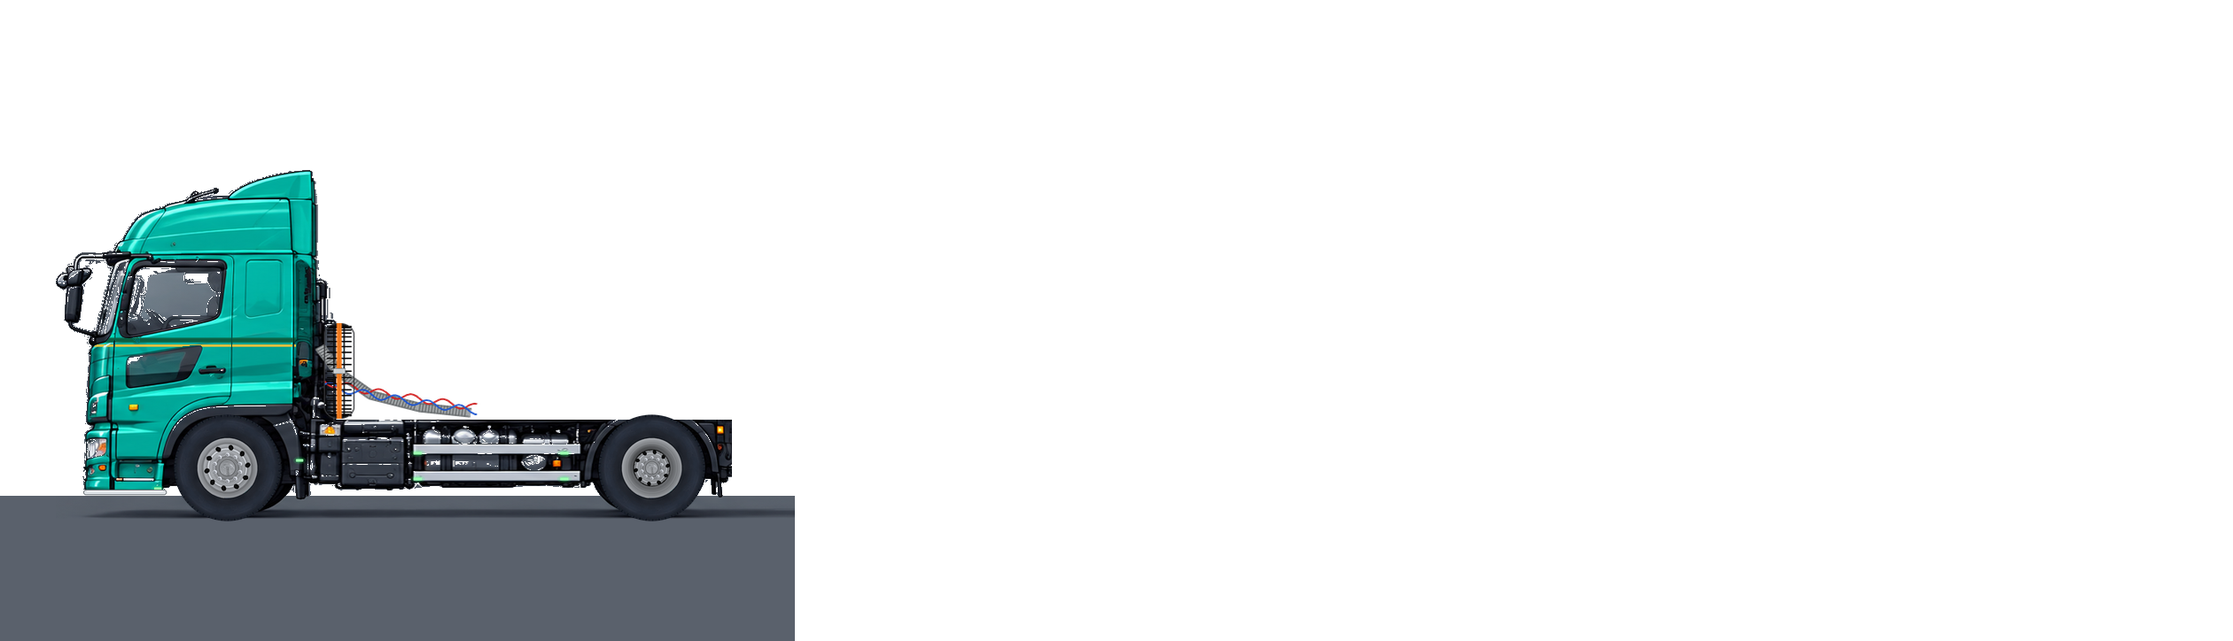
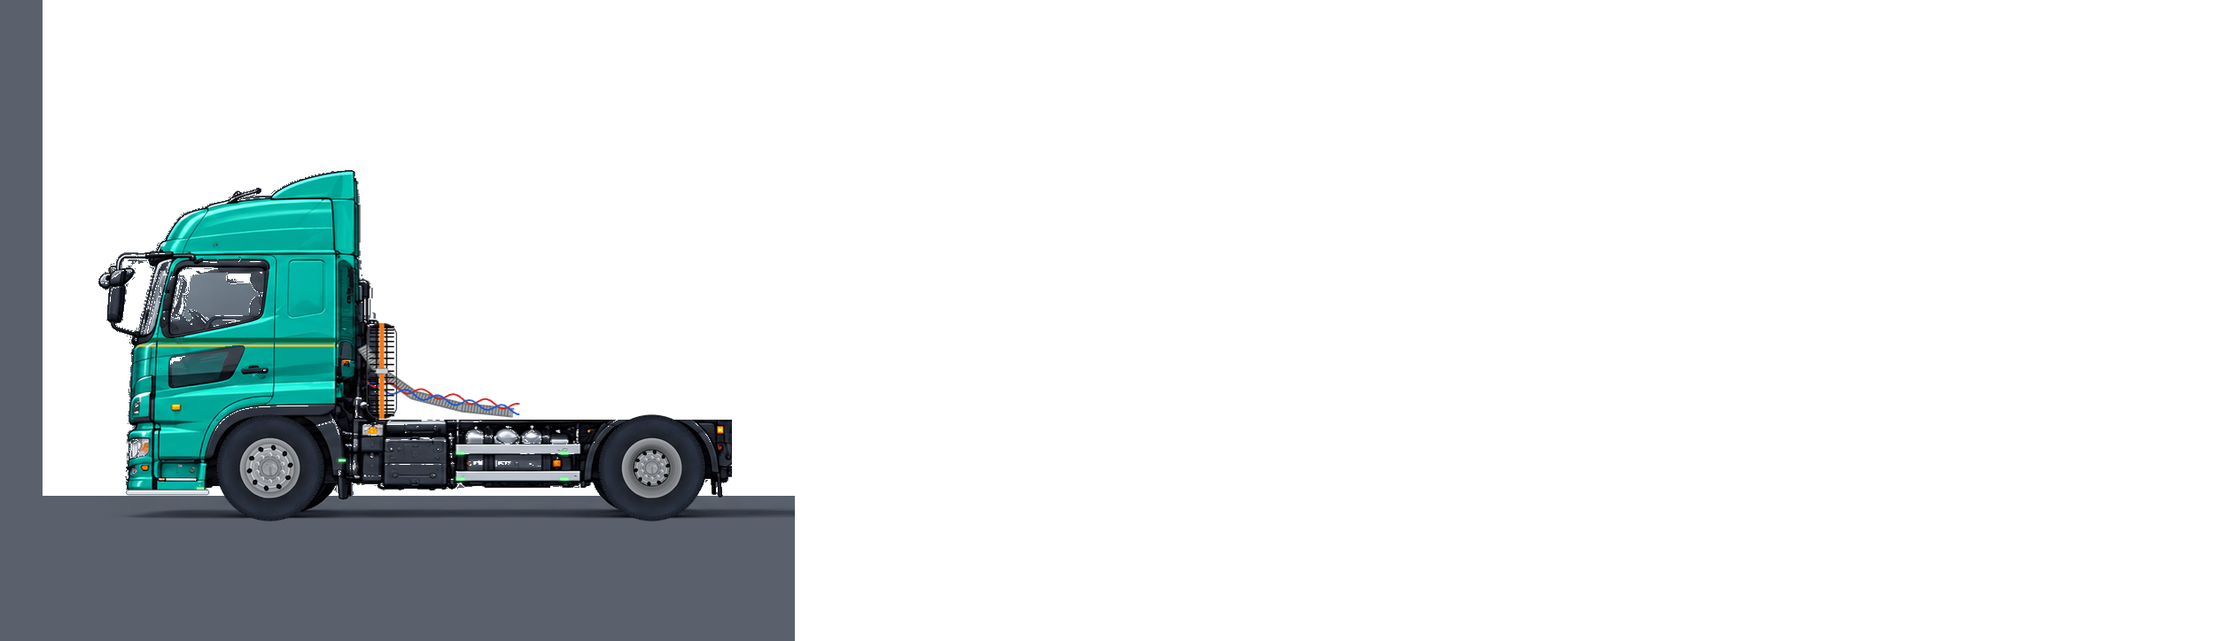
ビルド279.1.50

Changed region(s): [[0.0, 0.0, 0.2476, 0.8204]]

diff --git a/index.html b/index.html
@@ -301,33 +301,33 @@
     color: #1b1f24; font-size: 13px; font-weight: bold; line-height: 1.2; text-align: center;
     background: none;
     border: 14px solid transparent; border-width: 14px; margin: 0;
-    border-image: url(assets/common/ui/btn_plate.png?v=279.1.49) 14 fill / 14px stretch;
+    border-image: url(assets/common/ui/btn_plate.png?v=279.1.50) 14 fill / 14px stretch;
     border-radius: 0;
     text-shadow: 0 1px 0 rgba(255,255,255,.35);
   }
-  .plate:active, #floorPanel .mechRow button:active, #chockPanel button:active, #btnOrient:active, #btnOrientCar:active, #deckDrawerHandle:active { border-image-source: url(assets/common/ui/btn_plate_pressed.png?v=279.1.49); padding-top: 2px; }
-  #floorPanel .mechRow button.on, #chockPanel button.on, #btnOrientCar { border-image-source: url(assets/common/ui/btn_plate_go.png?v=279.1.49); }
-  #floorPanel .mechRow button.on:active, #btnOrientCar:active { border-image-source: url(assets/common/ui/btn_plate_go_pressed.png?v=279.1.49); }
-  #btnLid { border-image-source: url(assets/common/ui/btn_plate_warn.png?v=279.1.49); }
-  #btnLid:active { border-image-source: url(assets/common/ui/btn_plate_warn_pressed.png?v=279.1.49); }
-  #floorPanel .mechRow button.go { border-image-source: url(assets/common/ui/btn_plate_go.png?v=279.1.49); }
-  #floorPanel .mechRow button.go:active { border-image-source: url(assets/common/ui/btn_plate_go_pressed.png?v=279.1.49); }
-  #chockPanel button:disabled, #btnOrient:disabled { border-image-source: url(assets/common/ui/btn_plate_disabled.png?v=279.1.49); opacity: 1; color: #6b7078; text-shadow: none; }
+  .plate:active, #floorPanel .mechRow button:active, #chockPanel button:active, #btnOrient:active, #btnOrientCar:active, #deckDrawerHandle:active { border-image-source: url(assets/common/ui/btn_plate_pressed.png?v=279.1.50); padding-top: 2px; }
+  #floorPanel .mechRow button.on, #chockPanel button.on, #btnOrientCar { border-image-source: url(assets/common/ui/btn_plate_go.png?v=279.1.50); }
+  #floorPanel .mechRow button.on:active, #btnOrientCar:active { border-image-source: url(assets/common/ui/btn_plate_go_pressed.png?v=279.1.50); }
+  #btnLid { border-image-source: url(assets/common/ui/btn_plate_warn.png?v=279.1.50); }
+  #btnLid:active { border-image-source: url(assets/common/ui/btn_plate_warn_pressed.png?v=279.1.50); }
+  #floorPanel .mechRow button.go { border-image-source: url(assets/common/ui/btn_plate_go.png?v=279.1.50); }
+  #floorPanel .mechRow button.go:active { border-image-source: url(assets/common/ui/btn_plate_go_pressed.png?v=279.1.50); }
+  #chockPanel button:disabled, #btnOrient:disabled { border-image-source: url(assets/common/ui/btn_plate_disabled.png?v=279.1.50); opacity: 1; color: #6b7078; text-shadow: none; }
   #floorPanel .mechRow button::before, #chockPanel #btnLid::before, #chockPanel #btnChockSet::before, #chockPanel #btnChockFront::before, #chockPanel #btnChockRear::before, #btnOrient::before, #btnOrientCar::before, #deckDrawerHandle::before {
     content: ''; flex: none; width: 26px; height: 26px; background-position: center; background-size: contain; background-repeat: no-repeat;
   }
   #modeBar > span:empty { display: none; }
   #floorPanel .mechRow button.hold6b::before { display: none; }   /* semi-6b の仮の昇降ボタン(アイコン無し) */
-  #btnRamp::before { background-image: url(assets/common/ui/ic_ramp.png?v=279.1.49); }
-  #btnBridge::before { background-image: url(assets/common/ui/ic_bridge.png?v=279.1.49); }
-  #btnSlide::before { background-image: url(assets/common/ui/ic_slide.png?v=279.1.49); }
-  #btnF2Flap::before { background-image: url(assets/common/ui/ic_flap2.png?v=279.1.49); }
-  #btnLid::before { background-image: url(assets/common/ui/ic_lid.png?v=279.1.49); }
-  #btnChockSet::before { background-image: url(assets/common/ui/ic_chock.png?v=279.1.49); }
-  #btnChockFront::before { background-image: url(assets/common/ui/ic_front.png?v=279.1.49); }
-  #btnChockRear::before { background-image: url(assets/common/ui/ic_rear.png?v=279.1.49); }
-  #btnOrient::before, #btnOrientCar::before { background-image: url(assets/common/ui/ic_orient.png?v=279.1.49); }
-  #deckDrawerHandle::before { background-image: url(assets/common/ui/ic_drawer.png?v=279.1.49); }
+  #btnRamp::before { background-image: url(assets/common/ui/ic_ramp.png?v=279.1.50); }
+  #btnBridge::before { background-image: url(assets/common/ui/ic_bridge.png?v=279.1.50); }
+  #btnSlide::before { background-image: url(assets/common/ui/ic_slide.png?v=279.1.50); }
+  #btnF2Flap::before { background-image: url(assets/common/ui/ic_flap2.png?v=279.1.50); }
+  #btnLid::before { background-image: url(assets/common/ui/ic_lid.png?v=279.1.50); }
+  #btnChockSet::before { background-image: url(assets/common/ui/ic_chock.png?v=279.1.50); }
+  #btnChockFront::before { background-image: url(assets/common/ui/ic_front.png?v=279.1.50); }
+  #btnChockRear::before { background-image: url(assets/common/ui/ic_rear.png?v=279.1.50); }
+  #btnOrient::before, #btnOrientCar::before { background-image: url(assets/common/ui/ic_orient.png?v=279.1.50); }
+  #deckDrawerHandle::before { background-image: url(assets/common/ui/ic_drawer.png?v=279.1.50); }
   #chockPanel #btnChockFront, #chockPanel #btnChockRear { font-size: 0; padding: 0 4px; min-width: 56px; }   /* ◀前へ・後ろへ▶ は、アイコンだけ */
   #chockPanel #btnChockFront::after { content: '前へ'; font-size: 12px; }
   #chockPanel #btnChockRear::after { content: '後ろへ'; font-size: 12px; }
@@ -336,57 +336,57 @@
   /* 輪止め・落し蓋のスロット: フロアの名札(slot_*)。選んでいる番号は黄色い縁 */
   #slotSel button { box-sizing: border-box; width: 46px; height: 46px; min-width: 0; padding: 0; border: 0; border-radius: 0; font-size: 0; color: transparent; background: center / contain no-repeat; }
   #slotSel button.on { background-color: transparent; border: 0; }
-  #slotSel button[data-slot="1"] { background-image: url(assets/common/ui/slot_1.png?v=279.1.49); } #slotSel button[data-slot="1"].on { background-image: url(assets/common/ui/slot_1_selected.png?v=214); }
-  #slotSel button[data-slot="2"] { background-image: url(assets/common/ui/slot_2.png?v=279.1.49); } #slotSel button[data-slot="2"].on { background-image: url(assets/common/ui/slot_2_selected.png?v=214); }
-  #slotSel button[data-slot="3"] { background-image: url(assets/common/ui/slot_3.png?v=279.1.49); } #slotSel button[data-slot="3"].on { background-image: url(assets/common/ui/slot_3_selected.png?v=214); }
-  #slotSel button[data-slot="4"] { background-image: url(assets/common/ui/slot_4.png?v=279.1.49); } #slotSel button[data-slot="4"].on { background-image: url(assets/common/ui/slot_4_selected.png?v=214); }
-  #slotSel button[data-slot="5"] { background-image: url(assets/common/ui/slot_5.png?v=279.1.49); } #slotSel button[data-slot="5"].on { background-image: url(assets/common/ui/slot_5_selected.png?v=214); }
-  #slotSel button[data-slot="6"] { background-image: url(assets/common/ui/slot_6.png?v=279.1.49); } #slotSel button[data-slot="6"].on { background-image: url(assets/common/ui/slot_6_selected.png?v=214); }
-  #slotSel button[data-slot="7"] { background-image: url(assets/common/ui/slot_mid.png?v=279.1.49); } #slotSel button[data-slot="7"].on { background-image: url(assets/common/ui/slot_mid_selected.png?v=214); }
+  #slotSel button[data-slot="1"] { background-image: url(assets/common/ui/slot_1.png?v=279.1.50); } #slotSel button[data-slot="1"].on { background-image: url(assets/common/ui/slot_1_selected.png?v=214); }
+  #slotSel button[data-slot="2"] { background-image: url(assets/common/ui/slot_2.png?v=279.1.50); } #slotSel button[data-slot="2"].on { background-image: url(assets/common/ui/slot_2_selected.png?v=214); }
+  #slotSel button[data-slot="3"] { background-image: url(assets/common/ui/slot_3.png?v=279.1.50); } #slotSel button[data-slot="3"].on { background-image: url(assets/common/ui/slot_3_selected.png?v=214); }
+  #slotSel button[data-slot="4"] { background-image: url(assets/common/ui/slot_4.png?v=279.1.50); } #slotSel button[data-slot="4"].on { background-image: url(assets/common/ui/slot_4_selected.png?v=214); }
+  #slotSel button[data-slot="5"] { background-image: url(assets/common/ui/slot_5.png?v=279.1.50); } #slotSel button[data-slot="5"].on { background-image: url(assets/common/ui/slot_5_selected.png?v=214); }
+  #slotSel button[data-slot="6"] { background-image: url(assets/common/ui/slot_6.png?v=279.1.50); } #slotSel button[data-slot="6"].on { background-image: url(assets/common/ui/slot_6_selected.png?v=214); }
+  #slotSel button[data-slot="7"] { background-image: url(assets/common/ui/slot_mid.png?v=279.1.50); } #slotSel button[data-slot="7"].on { background-image: url(assets/common/ui/slot_mid_selected.png?v=214); }
   #slotSel button:active { filter: brightness(.85); }
 
   /* 前進(◀ 緑)・後退(▶ 橙)の大きな丸い押ボタン(押している間は沈む。クラス down は ui_layout.js が付ける) */
   #arrowGroup { background: none; border: 0; padding: 0; gap: 14px; }
   #arrowGroup .arrowBtn { width: 76px; height: 76px; border: 0; border-radius: 0; background-color: transparent; background-position: center; background-size: contain; background-repeat: no-repeat; font-size: 0; color: transparent; }
-  #btnLeft { background-image: url(assets/common/ui/btn_drive_fwd.png?v=279.1.49); }
-  #btnRight { background-image: url(assets/common/ui/btn_drive_back.png?v=279.1.49); }
-  #btnLeft:active, #btnLeft.down { background-image: url(assets/common/ui/btn_drive_fwd_pressed.png?v=279.1.49); background-color: transparent; }
-  #btnRight:active, #btnRight.down { background-image: url(assets/common/ui/btn_drive_back_pressed.png?v=279.1.49); background-color: transparent; }
+  #btnLeft { background-image: url(assets/common/ui/btn_drive_fwd.png?v=279.1.50); }
+  #btnRight { background-image: url(assets/common/ui/btn_drive_back.png?v=279.1.50); }
+  #btnLeft:active, #btnLeft.down { background-image: url(assets/common/ui/btn_drive_fwd_pressed.png?v=279.1.50); background-color: transparent; }
+  #btnRight:active, #btnRight.down { background-image: url(assets/common/ui/btn_drive_back_pressed.png?v=279.1.50); background-color: transparent; }
   body { padding-bottom: 104px; }
 
   /* 上の情報欄・下の操作パネルの背景 */
-  #modeBar { box-sizing: border-box; background: none; border: solid transparent; border-width: 0 24px 6px 24px; border-image: url(assets/common/ui/hud_bar.png?v=279.1.49) 0 24 6 24 fill / 0 24px 6px 24px stretch; padding: 8px 0 4px; gap: 8px; color: #dfe8f2; min-height: 56px; align-items: center; }
+  #modeBar { box-sizing: border-box; background: none; border: solid transparent; border-width: 0 24px 6px 24px; border-image: url(assets/common/ui/hud_bar.png?v=279.1.50) 0 24 6 24 fill / 0 24px 6px 24px stretch; padding: 8px 0 4px; gap: 8px; color: #dfe8f2; min-height: 56px; align-items: center; }
   #modeBar #modeBarName { flex: 1 1 100%; font-size: 14px; }
-  #modeBar > span:not(#modeBarName):not(#missCount) { box-sizing: border-box; border: 8px solid transparent; border-image: url(assets/common/ui/meter_box.png?v=279.1.49) 8 fill / 8px stretch; padding: 0 2px; min-width: 56px; text-align: center; font-size: 13px; color: #7dfcd0; font-weight: bold; line-height: 1.1; }
+  #modeBar > span:not(#modeBarName):not(#missCount) { box-sizing: border-box; border: 8px solid transparent; border-image: url(assets/common/ui/meter_box.png?v=279.1.50) 8 fill / 8px stretch; padding: 0 2px; min-width: 56px; text-align: center; font-size: 13px; color: #7dfcd0; font-weight: bold; line-height: 1.1; }
   #modeBar #modeBarScore { margin-left: auto; color: #ffd34d; }
   #modeBar #missCount { margin-left: 4px; font-size: 14px; }
   #toolbar { display: none; }
   body.debug #toolbar { display: flex; }
   #status { display: none; }
   body.debug #status { display: block; }
-  #floorPanel, #chockPanel, #controls { box-sizing: border-box; background: none; border: solid transparent; border-width: 12px 16px 8px 16px; border-image: url(assets/common/ui/panel_bg.png?v=279.1.49) 12 16 8 16 fill / 12px 16px 8px 16px stretch; margin-top: 2px; }
+  #floorPanel, #chockPanel, #controls { box-sizing: border-box; background: none; border: solid transparent; border-width: 12px 16px 8px 16px; border-image: url(assets/common/ui/panel_bg.png?v=279.1.50) 12 16 8 16 fill / 12px 16px 8px 16px stretch; margin-top: 2px; }
 
   /* A-3 必要な時だけ出す: スイッチの説明文は ? を押した時だけ。車の一覧は引き出し式 */
   #swHint { display: none !important; }
   #swHint.show { display: block !important; }
   #btnHelp, #btnSwClose { box-sizing: border-box; width: 36px; height: 36px; padding: 0; margin-left: 8px; vertical-align: middle; border: 0; background: center / contain no-repeat; font-size: 0; color: transparent; cursor: pointer; }
-  #btnHelp { background-image: url(assets/common/ui/ic_help.png?v=279.1.49); }
-  #floorPanel #btnSwClose { width: 36px; height: 36px; padding: 0; margin-left: 4px; border: 0; background: center / contain no-repeat url(assets/common/ui/ic_close.png?v=279.1.49); font-size: 0; }
+  #btnHelp { background-image: url(assets/common/ui/ic_help.png?v=279.1.50); }
+  #floorPanel #btnSwClose { width: 36px; height: 36px; padding: 0; margin-left: 4px; border: 0; background: center / contain no-repeat url(assets/common/ui/ic_close.png?v=279.1.50); font-size: 0; }
   #deckDrawerHandle { width: 100%; justify-content: flex-start; }
   #deckDrawerHandle .cnt { margin-left: auto; font-weight: normal; }
   #deckDrawer { display: none; }
   #deckDrawer.open { display: block; margin-top: 6px; }
 
   /* 今は押せない操作(車が道板・4番扇動板を通っている間など)は、灰色の板にする(ui_layout.js が na を付ける。押すとゲームが理由を出す) */
-  #floorPanel .mechRow button.na, #floorPanel .mechRow button.na:active { border-image-source: url(assets/common/ui/btn_plate_disabled.png?v=279.1.49); color: #6b7078; text-shadow: none; padding-top: 0; }
+  #floorPanel .mechRow button.na, #floorPanel .mechRow button.na:active { border-image-source: url(assets/common/ui/btn_plate_disabled.png?v=279.1.50); color: #6b7078; text-shadow: none; padding-top: 0; }
   #floorPanel .mechRow button.na::before { opacity: .45; }
 
   /* モード・難易度・結果の画面のボタンも、同じ板にそろえる(もう一度=緑) */
-  .modeBtn { box-sizing: border-box; background: none; border: 14px solid transparent; border-image: url(assets/common/ui/btn_plate.png?v=279.1.49) 14 fill / 14px stretch; border-radius: 0; color: #1b1f24; text-shadow: 0 1px 0 rgba(255,255,255,.35); padding: 4px 8px; min-height: 52px; }
+  .modeBtn { box-sizing: border-box; background: none; border: 14px solid transparent; border-image: url(assets/common/ui/btn_plate.png?v=279.1.50) 14 fill / 14px stretch; border-radius: 0; color: #1b1f24; text-shadow: 0 1px 0 rgba(255,255,255,.35); padding: 4px 8px; min-height: 52px; }
   .modeBtn small { color: #3a4048; }
-  .modeBtn:active { background: none; border-image-source: url(assets/common/ui/btn_plate_pressed.png?v=279.1.49); }
-  #btnRetry.modeBtn { border-image-source: url(assets/common/ui/btn_plate_go.png?v=279.1.49); }
-  #btnRetry.modeBtn:active { border-image-source: url(assets/common/ui/btn_plate_go_pressed.png?v=279.1.49); }
+  .modeBtn:active { background: none; border-image-source: url(assets/common/ui/btn_plate_pressed.png?v=279.1.50); }
+  #btnRetry.modeBtn { border-image-source: url(assets/common/ui/btn_plate_go.png?v=279.1.50); }
+  #btnRetry.modeBtn:active { border-image-source: url(assets/common/ui/btn_plate_go_pressed.png?v=279.1.50); }
 
   /* ===== スマホ幅: 下にスクロールしなくても、操作が1画面に収まるように詰める(車の一覧だけ、下にスクロールでよい。2026-10-06) =====
      幅 700px 以下だけに効く(パソコンの広い画面は、今まで通り)。ボタンの高さ・余白・段数を減らす */
@@ -664,7 +664,7 @@
 // トレーラーの切り替え: URL の hash に trailer=semi-6b があれば semi-6b、無ければ semi-6(従来どおり)。選んだIDは window.TRAILER_ID。
 // 読むファイルの組み合わせがトレーラーごとに違う(設定・フロア機構・積める判定・操作ボタン)ので、ここで決めて順番に読む。画像・JSを差し替えたら ?v= を上げる
 (function () {
-  var m = /[#&]trailer=(semi-6b?)(?:&|$)/.exec(location.hash), id = window.TRAILER_ID = m ? m[1] : 'semi-6', V = '?v=279.1.49';
+  var m = /[#&]trailer=(semi-6b?)(?:&|$)/.exec(location.hash), id = window.TRAILER_ID = m ? m[1] : 'semi-6', V = '?v=279.1.50';
   var list = id === 'semi-6b'
     ? ['trailer_config_semi6b', 'car_library', 'car_dims', 'car_tires', 'floor_mech_6b', 'loadable_6b', 'main', 'game', 'floor_controls_6b', 'modes', 'dispatch', 'ui_layout', 'ui_hide']
     : ['trailer_config', 'trailer_assets', 'car_library', 'car_dims', 'car_tires', 'floor_mech', 'loadable', 'main', 'game', 'floor_controls', 'modes', 'tutorial', 'dispatch', 'ui_layout', 'ui_hide'];

diff --git a/js/floor_mech.js b/js/floor_mech.js
@@ -536,7 +536,17 @@
   // 平らで金具が掛かっている普段の状態は、しまってあるので出さない(2026-10-08 ユーザー指示: ボタンをやめて、画面上で操作する)
   function stopperVisible() { return !!(MECH.hook || !MECH.stopper); }
   // 金具の位置(画面座標): 5番フロアの前端の下面。5番フロアの今の姿勢に付いていく
-  function stopperPos() { return [1011, 447]; }   // タップする所: 赤いレバーの先(D45。以前は5番の前端の下面)
+  // 赤いレバーは、5番フロアの前端に取り付ける(ユーザー指示 2026-10-15。以前は柱に固定)。素材の位置(D45): 5番が4番の高さ(前端 (1005,451)・6.73度)に掛かった時、レバーの軸=(1003,457)。
+  // その差を、5番の座標(5番の角度で回す)で持ち、5番の今の前端と角度に付いていく。レバーの絵は、その時の向き(世界の角度)で作ってあるので、5番の角度の差(今の角度 − 6.73度)だけ回す
+  var LV_LOCAL = [-1.28, 6.19], LV_DEG0 = 6.73;
+  function leverPose() {
+    var p = f5FrontPt(), a = poseOf('F5').ang * Math.PI / 180, c = Math.cos(a), s = Math.sin(a);
+    return { pin: [p[0] + LV_LOCAL[0] * c - LV_LOCAL[1] * s, p[1] + LV_LOCAL[0] * s + LV_LOCAL[1] * c], rot: a - LV_DEG0 * Math.PI / 180 };
+  }
+  function stopperPos() {   // タップする所: 赤いレバーの先
+    var L = leverPose(), c = Math.cos(L.rot), s = Math.sin(L.rot);
+    return [L.pin[0] + 8 * c + 10 * s, L.pin[1] + 8 * s - 10 * c];
+  }
   function f5FrontPt() { return onFloor('F5', FLOORS.F5.front.pt[0], FLOORS.F5.front.pt[1]); }
   function toggleStopper() {
     if (MECH.stopper) {
@@ -1069,7 +1079,7 @@
     poseOf: poseOf, tf: tf, onFloor: onFloor, curOffs: curOffs,
     holeNo: holeNo, holeRange: holeRange, pinTarget: pinTarget, snapToHole: snapToHole,
     stepPinTarget: stepPinTarget, togglePin: togglePin,
-    toggleStopper: toggleStopper, stopperVisible: stopperVisible, stopperPos: stopperPos, f5FrontPt: f5FrontPt, toggleBridge: toggleBridge, f5Slope: f5Slope,
+    toggleStopper: toggleStopper, stopperVisible: stopperVisible, stopperPos: stopperPos, f5FrontPt: f5FrontPt, leverPose: leverPose, toggleBridge: toggleBridge, f5Slope: f5Slope,
     toggleRamp: toggleRamp, rampUpdate: rampUpdate, rampReady: rampReady, rampT: function () { rampUpdate(); return RAMP.t; },
     toggleF2Flap: toggleF2Flap, toggleSlide: toggleSlide, carTiresOn: carTiresOn, bridgeSeg: bridgeSeg, slideT: slideT, slideReady: slideReady, slideGeom: slideGeom, slideHitsBody: slideHitsBody, bridgeHitsBody: bridgeHitsBody, bridgeSurfaceY: bridgeSurfaceY, SLIDE: SLIDE, F2_FLAP_LEN: F2_FLAP_LEN, flapT: flapT, bridgeT: bridgeT, bridgeReady: bridgeReady, bridgeTip: bridgeTip,
     holdStart: holdStart, holdStop: holdStop,

diff --git a/js/main.js b/js/main.js
@@ -712,7 +712,7 @@
     if (IS6B) return;
     if (!tractorWheelImgs) {
       tractorWheelImgs = [];
-      [['assets/semi-6/wheel_front.png', 256.5, 528.5], ['assets/semi-6/wheel_drive.png', 735.5, 528.5]].forEach(function (d) {
+      [['assets/semi-6/wheel_front.png', 304.5, 528.5], ['assets/semi-6/wheel_drive.png', 735.5, 528.5]].forEach(function (d) {
         var im = new Image(); im.src = d[0] + '?v=1'; tractorWheelImgs.push({ im: im, x: d[1], y: d[2] });
       });
     }
@@ -1116,15 +1116,15 @@
 
   // 5番のスロープのピンの、赤いレバー(中央の柱の後ろの面。D45。マニュアルの図とユーザーの説明どおり)。普段は斜め上40度。5番が4番の高さに掛かっている間にタップすると、
   // レバーが上がって(82度)ピンが外れ、5番を下げられる。5番が4番の高さより下がると、レバーは自動で普段の向きに戻る(ピンが出る)。タップできる間は、まわりをゆっくり光らせる
-  var LEVER_AT = [1003, 457];
   function drawStopperHook(fm) {
     var up = !fm.MECH.stopper, im = images[up ? 'sl_lever_up' : 'sl_lever'];
-    if (!im) return;
+    if (!im || !fm.leverPose) return;
+    var L = fm.leverPose();   // 5番フロアの前端に付いて、5番と一緒に動く(ユーザー指示 2026-10-15)
     if (fm.stopperVisible && fm.stopperVisible()) {
-      var pulse = 0.5 + 0.5 * Math.sin(performance.now() / 260);
-      ctx.save(); ctx.fillStyle = 'rgba(255,90,70,' + (0.16 + 0.2 * pulse) + ')'; ctx.beginPath(); ctx.arc(LEVER_AT[0] + 8, LEVER_AT[1] - 10, 16 + 3 * pulse, 0, Math.PI * 2); ctx.fill(); ctx.restore();
+      var pulse = 0.5 + 0.5 * Math.sin(performance.now() / 260), tp = fm.stopperPos();
+      ctx.save(); ctx.fillStyle = 'rgba(255,90,70,' + (0.16 + 0.2 * pulse) + ')'; ctx.beginPath(); ctx.arc(tp[0], tp[1], 16 + 3 * pulse, 0, Math.PI * 2); ctx.fill(); ctx.restore();
     }
-    ctx.drawImage(im, LEVER_AT[0] - 7, LEVER_AT[1] - 19);
+    ctx.save(); ctx.translate(L.pin[0], L.pin[1]); ctx.rotate(L.rot); ctx.drawImage(im, -7, -19); ctx.restore();
   }
 
   function drawPulley(p) {

diff --git a/js/trailer_config.js b/js/trailer_config.js
@@ -2,11 +2,11 @@ window.TRAILER_CONFIG = {
   "id": "semi-6",
   "name": "セミトレーラー(6台積み)",
   "stage": { "w": 2520, "h": 724 },
-  "yard": { "bg": "assets/common/yard/yard_bg.png", "ground": "assets/common/yard/yard_ground.png", "frameBack": "assets/semi-6/frame_back_clear.png", "tractor": "assets/semi-6/tractor_clear.png", "v": 2 },
+  "yard": { "bg": "assets/common/yard/yard_bg.png", "ground": "assets/common/yard/yard_ground.png", "frameBack": "assets/semi-6/frame_back_clear.png", "tractor": "assets/semi-6/tractor_clear.png", "v": 3 },
   "pxPerMeter": 114,
 
   "newArt": {
-    "v": 123,
+    "v": 124,
     "note": "グラフィック制作チャットの新素材(assets/semi-6/...)。floors=フロア(ステージ全面サイズ)",
     "switchScale": 0.27, "switchDir": "assets/common/switches/",
     "switchParts": ["sw_pendant2", "sw_pendant6", "sw_box2", "lamp_panel_lock", "btn_cap_ue_big", "btn_cap_ue_big_pressed", "btn_cap_shita_big", "btn_cap_shita_big_pressed", "btn_sq", "btn_sq_pressed", "btn_cap6_nobi_big", "btn_cap6_chiji_big", "btn_cap6_migi_oshi_big", "btn_cap6_migi_hiki_big", "btn_cap6_hidari_oshi_big", "btn_cap6_hidari_hiki_big", "btn_cap6_nobi_big_pressed", "btn_cap6_chiji_big_pressed", "btn_cap6_migi_oshi_big_pressed", "btn_cap6_migi_hiki_big_pressed", "btn_cap6_hidari_oshi_big_pressed", "btn_cap6_hidari_hiki_big_pressed", "hint_glow", "lamp_green", "lamp_green_off", "lamp_red", "lamp_red_off"],

diff --git a/js/game.js b/js/game.js
@@ -46,7 +46,7 @@
   var SPIN_SIGN = -1; // 前進(進行量+)方向のホイール回転符号
   var CHOCK_OVERRIDE_SPEED_PX_S = 3.05 * cfg.pxPerMeter; // これ以上の勢いで当たると輪止めを乗り越える(高い輪止め=乗り越えにくい)
   var OVERRIDE_SPEED_KEEP = 0.55; // 乗り越えた瞬間、衝撃で失われず残る速度の割合
-  var CAB_DECEL = 420, CAB_X = 372, CAB_DECK_X = 491;   // 1番を乗り越えた車が、床の先端を越えて滑る時の減速(px/秒²)と、キャビンの後ろ面のx(ステージ座標)
+  var CAB_DECEL = 420, CAB_X = 420, CAB_DECK_X = 491;   // 1番を乗り越えた車が、床の先端を越えて滑る時の減速(px/秒²)と、キャビンの後ろ面のx(ステージ座標)
   var OVERSHOOT_CAP_PX = 130; // 乗り越えて進める限界(その先は壁扱いでこれ以上進めない)
 
   var missCountEl = document.getElementById('missCount');

diff --git a/title.html b/title.html
@@ -461,6 +461,6 @@
   });
 })();
 </script>
-<div id="buildTag" style="position:fixed;right:8px;bottom:6px;font:11px/1 sans-serif;color:rgba(255,255,255,.55);text-shadow:0 1px 2px rgba(0,0,0,.6);z-index:5;pointer-events:none">ビルド 279.1.49</div>
+<div id="buildTag" style="position:fixed;right:8px;bottom:6px;font:11px/1 sans-serif;color:rgba(255,255,255,.55);text-shadow:0 1px 2px rgba(0,0,0,.6);z-index:5;pointer-events:none">ビルド 279.1.50</div>
 </body>
 </html>
